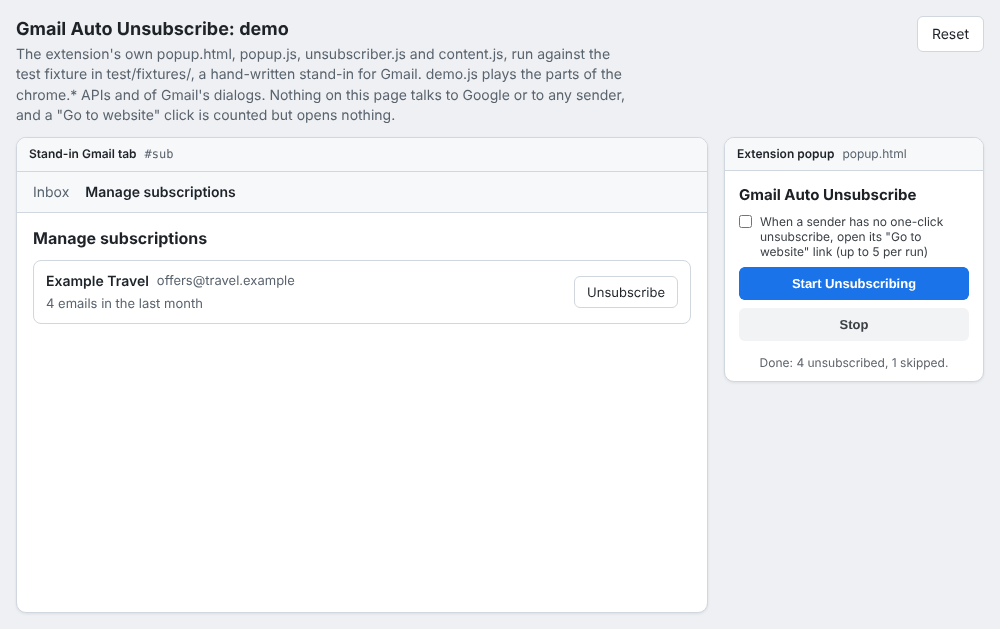
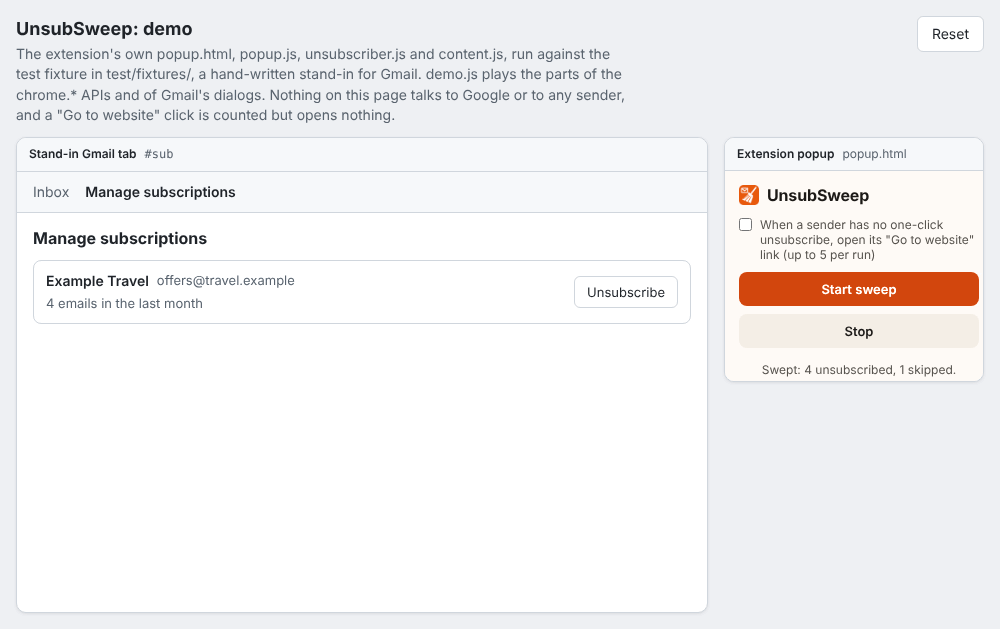
docs: re-capture demo images with the UnsubSweep popup
Claude-Session: https://claude.ai/code/session_01R2svZ8timujxvoyZWrCW7A

Changed region(s): [[0.713, 0.2719, 0.992, 0.6041], [0.0, 0.0302, 0.31, 0.0604]]

diff --git a/README.md b/README.md
@@ -7,7 +7,7 @@
 
 **Status: preparing v1 for the Chrome Web Store.** It is tested against a hand-written stand-in for Gmail's page, not yet on a live Gmail account. Until the listing is live, install it with Load unpacked. Website and privacy policy: [`site/`](site/) (served at `/` and `/privacy`).
 
-![The extension's popup showing "Running: 1 unsubscribed, 1 skipped." next to a stand-in subscriptions list with an "Unsubscribe from Example Club?" dialog open](docs/images/demo-running.png)
+![The UnsubSweep popup showing "Running: 1 unsubscribed, 0 skipped." next to a stand-in subscriptions list with four senders left](docs/images/demo-running.png)
 
 *The extension's own popup and loop, running in [`demo/`](demo/) against the hand-written test fixture. This is not real Gmail.*
 
@@ -141,11 +141,11 @@ npm run demo        # serves the repo on http://localhost:8000 (PORT=... to chan
 
 Then open <http://localhost:8000/demo/> and press **Start sweep**. **Reset** reloads the list.
 
-![The same demo after the run: the popup shows "Done: 4 unsubscribed, 1 skipped." and only Example Travel, the website-only sender, is left in the list](docs/images/demo-done.png)
+![The same demo after the run: the popup shows "Swept: 4 unsubscribed, 1 skipped." and only Example Travel, the website-only sender, is left in the list](docs/images/demo-done.png)
 
 A full run, recorded with Playwright from `npm run demo` (15 seconds):
 
-![A recorded run of the demo: the popup counts each sender as the loop clicks Unsubscribe and confirms the dialog, ending at "Done: 4 unsubscribed, 1 skipped."](docs/images/demo-run.gif)
+![A recorded run of the demo: the popup counts each sender as the loop clicks Unsubscribe and confirms the dialog, ending at "Swept: 4 unsubscribed, 1 skipped."](docs/images/demo-run.gif)
 
 Hosted copy: [gmail-auto-unsubscribe-demo.vercel.app](https://gmail-auto-unsubscribe-demo.vercel.app) (the same page, served by Vercel from `vercel.json`, with `/` going to `/demo/`). It is the stand-in demo, not Gmail.
 
